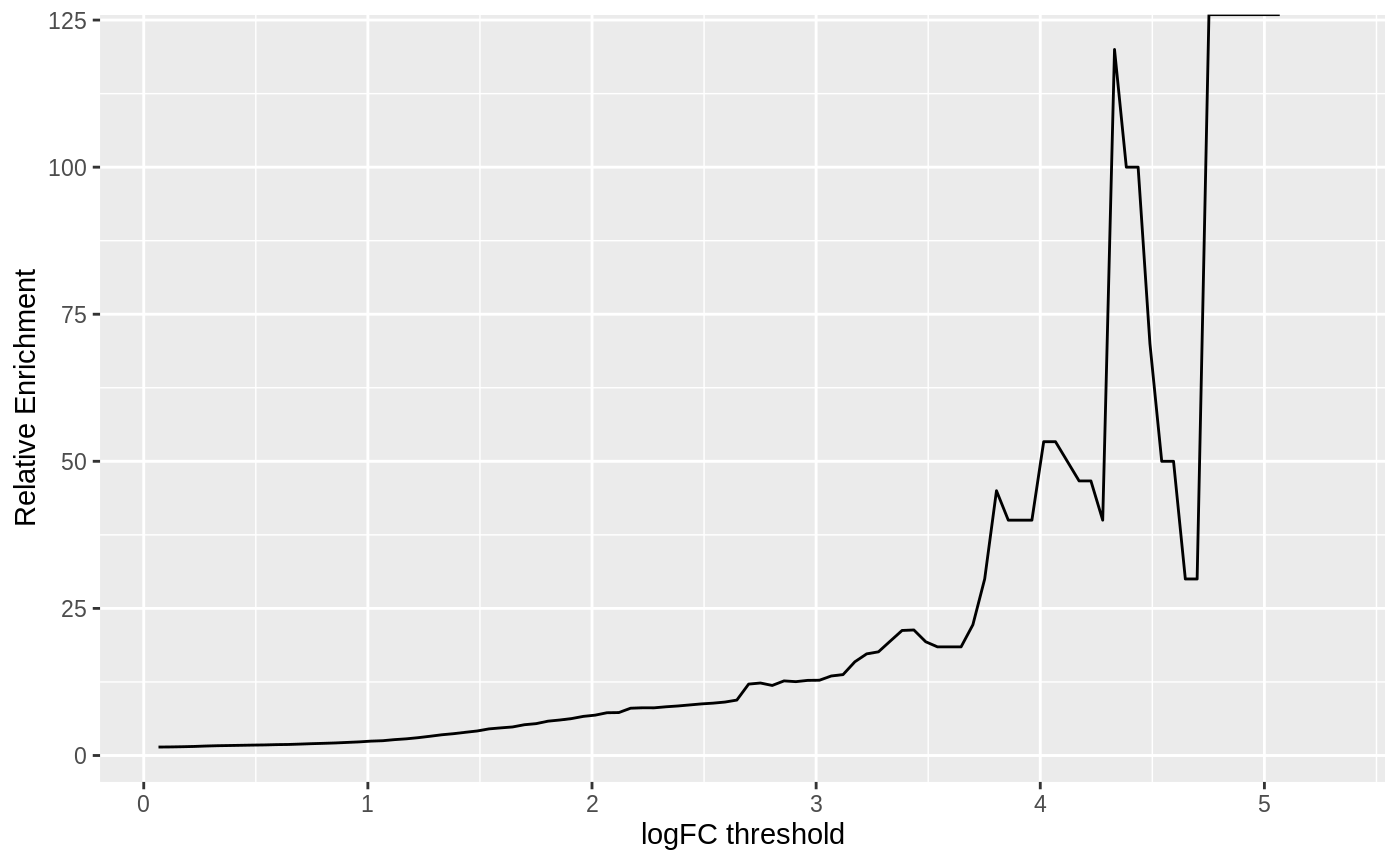
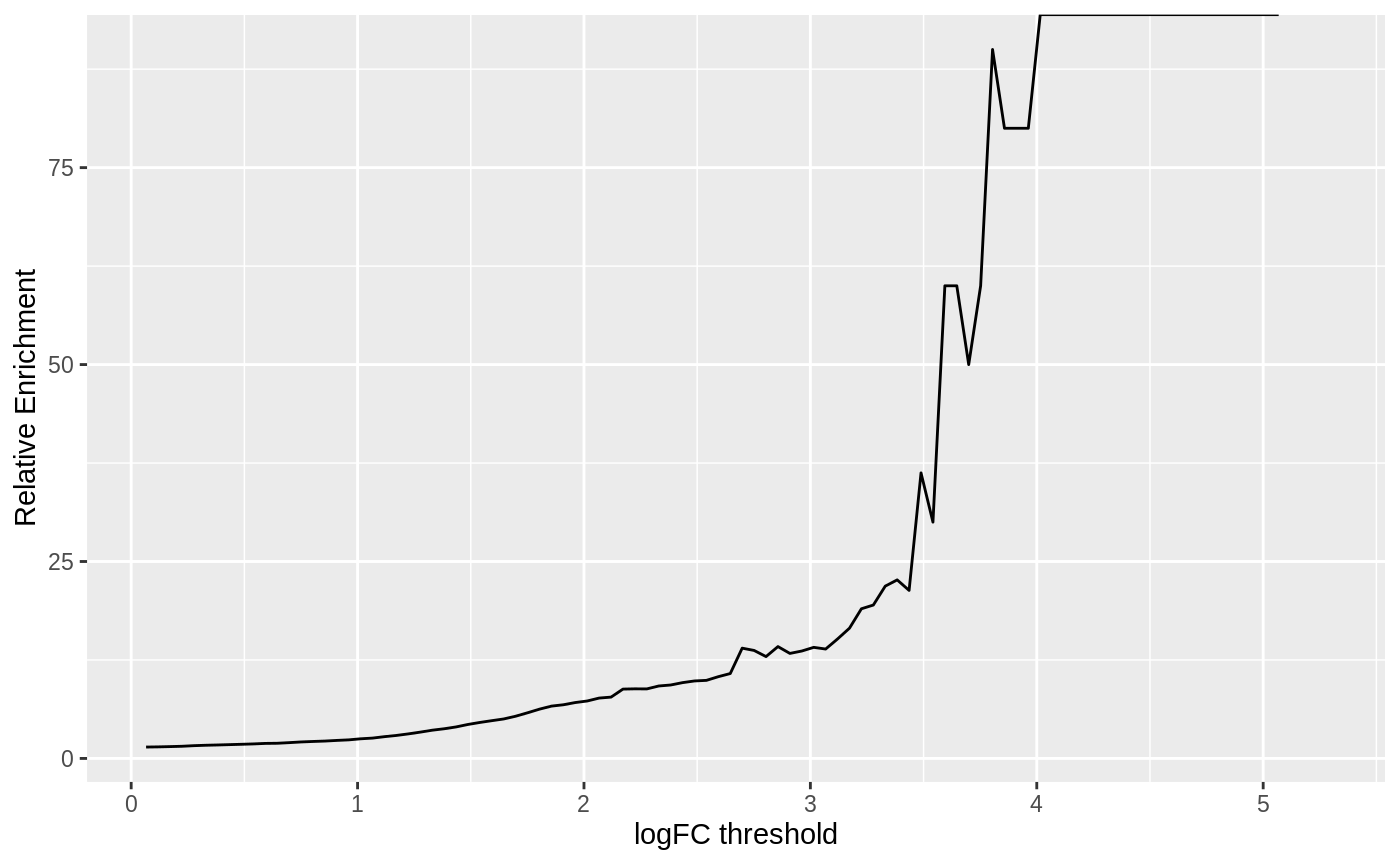
Built site for fluentGenomics: 0.0.2@2f05966

diff --git a/articles/fluentGenomics.html b/articles/fluentGenomics.html
@@ -31,7 +31,7 @@
       </button>
       <span class="navbar-brand">
         <a class="navbar-link" href="../index.html">fluentGenomics</a>
-        <span class="version label label-default" data-toggle="tooltip" data-placement="bottom" title="Released version">0.0.1</span>
+        <span class="version label label-default" data-toggle="tooltip" data-placement="bottom" title="Released version">0.0.2</span>
       </span>
     </div>
 
@@ -196,7 +196,7 @@ into R/Bioconductor, such that the genomic ranges are automatically attached to 
 use a figure -->
 <p>Because <code>tximeta</code> knows the correct reference transcriptome, we can ask <code>tximeta</code> to summarize the transcript-level data to the gene level using the methods of <span class="citation">Soneson, Love, and Robinson (2015)</span>.</p>
 <div class="sourceCode" id="cb20"><pre class="sourceCode r"><code class="sourceCode r"><a class="sourceLine" id="cb20-1" data-line-number="1">gse &lt;-<span class="st"> </span><span class="kw">summarizeToGene</span>(se)</a></code></pre></div>
-<pre><code>## loading existing TxDb created: 2019-12-10 07:18:39</code></pre>
+<pre><code>## loading existing TxDb created: 2019-12-10 22:53:53</code></pre>
 <pre><code>## Loading required package: GenomicFeatures</code></pre>
 <pre><code>## Loading required package: AnnotationDbi</code></pre>
 <pre><code>## 
@@ -440,48 +440,51 @@ use a figure -->
 <pre><code>## GRanges object with 749 ranges and 3 metadata columns:
 ##         seqnames              ranges strand |            gene_id
 ##            &lt;Rle&gt;           &lt;IRanges&gt;  &lt;Rle&gt; |        &lt;character&gt;
-##     [1]    chr21   14371115-14383484      - |  ENSG00000155304.5
-##     [2]    chr12 123973241-124316024      + | ENSG00000178882.14
-##     [3]     chr6     7540451-7541338      - |  ENSG00000261189.1
-##     [4]     chr6   30006121-30007116      - |  ENSG00000237669.1
-##     [5]     chr1 154924734-154936991      - |  ENSG00000163344.5
+##     [1]     chr2   20560448-20651089      - | ENSG00000118960.12
+##     [2]     chr1 204218851-204377665      - | ENSG00000143850.14
+##     [3]     chr7 148807383-148884321      - | ENSG00000106462.10
+##     [4]    chr22   50445000-50475024      - | ENSG00000100241.20
+##     [5]    chr11   64246939-64249494      - |  ENSG00000257086.1
 ##     ...      ...                 ...    ... .                ...
-##   [745]    chr17   82462601-82464255      + |  ENSG00000279744.1
-##   [746]     chr6 161129979-161274061      - | ENSG00000026652.13
-##   [747]     chr6   44246166-44253888      + | ENSG00000096384.19
-##   [748]     chr3   86876388-86991119      - |  ENSG00000206538.8
-##   [749]    chr14   64549902-64589380      + |  ENSG00000165807.7
+##   [745]     chr3   75435348-75457486      + |  ENSG00000272690.5
+##   [746]     chr6   27837760-27865798      + |  ENSG00000233822.4
+##   [747]    chr15   73683966-73714518      + | ENSG00000103855.17
+##   [748]    chr10   99702558-99756134      + | ENSG00000119929.12
+##   [749]     chr2   27032910-27041695      + | ENSG00000119777.19
 ##                  de_log2FC           de_padj
 ##                  &lt;numeric&gt;         &lt;numeric&gt;
-##     [1]  0.101284501454957 0.771798693378446
-##     [2]   0.40796352815316 0.436281252787391
-##     [3]  0.174251867449551 0.898706588478367
-##     [4] -0.173296002719211  0.83311637653751
-##     [5]  0.169893624055423 0.592360753923637
+##     [1] 0.0906493249588821 0.785216655905925
+##     [2]  0.901529521380996 0.326033287420592
+##     [3] -0.116182898136388 0.746389486512003
+##     [4] -0.010061979305195 0.944471659757911
+##     [5]  -0.10900541625657 0.827614275859023
 ##     ...                ...               ...
-##   [745]  -0.22926105902165 0.738993959858183
-##   [746] -0.180568574777471  0.56704245174686
-##   [747] 0.0718443231148747 0.770712293912206
-##   [748] -0.208776985249641 0.750101122328556
-##   [749]  0.374051797475899 0.626787425963629
+##   [745] -0.397530778131519 0.403507897275204
+##   [746] -0.178819078560767  0.77714845828255
+##   [747]  0.148106355273014 0.581597160086851
+##   [748] -0.147283017994724 0.525447904096689
+##   [749] -0.230542407564382 0.213672339268834
 ##   -------
 ##   seqinfo: 25 sequences (1 circular) from an unspecified genome; no seqlengths</code></pre>
-<p>We can scale this up to create many samples via replicate:</p>
-<div class="sourceCode" id="cb64"><pre class="sourceCode r"><code class="sourceCode r"><a class="sourceLine" id="cb64-1" data-line-number="1"><span class="kw"><a href="https://rdrr.io/r/base/Random.html">set.seed</a></span>(<span class="dv">2099</span>)</a>
-<a class="sourceLine" id="cb64-2" data-line-number="2">boot_genes &lt;-<span class="st"> </span><span class="kw"><a href="https://rdrr.io/r/base/lapply.html">replicate</a></span>(<span class="dv">10</span>,</a>
-<a class="sourceLine" id="cb64-3" data-line-number="3">                        <span class="kw"><a href="https://rdrr.io/pkg/plyranges/man/tidyverse-reexports.html">slice</a></span>(other_genes, <span class="kw"><a href="https://rdrr.io/r/base/sample.html">sample.int</a></span>(<span class="kw"><a href="https://rdrr.io/pkg/plyranges/man/n.html">n</a></span>(), size)),</a>
-<a class="sourceLine" id="cb64-4" data-line-number="4">                        <span class="dt">simplify =</span> <span class="ot">FALSE</span>)</a></code></pre></div>
+<p>We can repeat this many times to create many samples via replicate:</p>
+<div class="sourceCode" id="cb64"><pre class="sourceCode r"><code class="sourceCode r"><a class="sourceLine" id="cb64-1" data-line-number="1"><span class="co"># set a seed for the results</span></a>
+<a class="sourceLine" id="cb64-2" data-line-number="2"><span class="kw"><a href="https://rdrr.io/r/base/Random.html">set.seed</a></span>(<span class="dv">2019-08-02</span>)</a>
+<a class="sourceLine" id="cb64-3" data-line-number="3">boot_genes &lt;-<span class="st"> </span><span class="kw"><a href="https://rdrr.io/r/base/lapply.html">replicate</a></span>(<span class="dv">10</span>,</a>
+<a class="sourceLine" id="cb64-4" data-line-number="4">                        <span class="kw"><a href="https://rdrr.io/pkg/plyranges/man/tidyverse-reexports.html">slice</a></span>(other_genes, <span class="kw"><a href="https://rdrr.io/r/base/sample.html">sample.int</a></span>(<span class="kw"><a href="https://rdrr.io/pkg/plyranges/man/n.html">n</a></span>(), size)),</a>
+<a class="sourceLine" id="cb64-5" data-line-number="5">                        <span class="dt">simplify =</span> <span class="ot">FALSE</span>)</a></code></pre></div>
 <p>This creates a list of <em>GRanges</em> objects as a list, we can bind these together using the <code>bind_ranges</code> function. This function creates a new column called “resample” on the result that identifies each of the input <em>GRanges</em> objects:</p>
 <div class="sourceCode" id="cb65"><pre class="sourceCode r"><code class="sourceCode r"><a class="sourceLine" id="cb65-1" data-line-number="1">boot_genes &lt;-<span class="st"> </span><span class="kw"><a href="https://rdrr.io/pkg/plyranges/man/ranges-bind.html">bind_ranges</a></span>(boot_genes, <span class="dt">.id =</span> <span class="st">"resample"</span>)</a></code></pre></div>
 <p>Similarly, we can then combine the <code>boot_genes</code> <em>GRanges</em>, with the DE <em>GRanges</em> object. As the resample column was not present on the DE <em>GRanges</em> object, this is given a missing value which we recode to a 0 using <code><a href="https://rdrr.io/pkg/plyranges/man/tidyverse-reexports.html">mutate()</a></code></p>
-<div class="sourceCode" id="cb66"><pre class="sourceCode r"><code class="sourceCode r"><a class="sourceLine" id="cb66-1" data-line-number="1">all_genes &lt;-<span class="st"> </span><span class="kw"><a href="https://rdrr.io/pkg/plyranges/man/ranges-bind.html">bind_ranges</a></span>(<span class="dt">de=</span>de_genes,</a>
-<a class="sourceLine" id="cb66-2" data-line-number="2">                         <span class="dt">not_de =</span> boot_genes,</a>
-<a class="sourceLine" id="cb66-3" data-line-number="3">                         <span class="dt">.id=</span><span class="st">"origin"</span>) <span class="op">%&gt;%</span></a>
-<a class="sourceLine" id="cb66-4" data-line-number="4"><span class="st">  </span><span class="kw"><a href="https://rdrr.io/pkg/plyranges/man/tidyverse-reexports.html">mutate</a></span>(</a>
-<a class="sourceLine" id="cb66-5" data-line-number="5">    <span class="dt">origin =</span> <span class="kw"><a href="https://rdrr.io/r/base/factor.html">factor</a></span>(origin, <span class="kw"><a href="https://rdrr.io/r/base/c.html">c</a></span>(<span class="st">"de"</span>, <span class="st">"not_de"</span>)),</a>
-<a class="sourceLine" id="cb66-6" data-line-number="6">    <span class="dt">resample =</span> <span class="kw"><a href="https://rdrr.io/r/base/ifelse.html">ifelse</a></span>(<span class="kw"><a href="https://rdrr.io/r/base/NA.html">is.na</a></span>(resample), 0L, <span class="kw"><a href="https://rdrr.io/r/base/integer.html">as.integer</a></span>(resample))</a>
-<a class="sourceLine" id="cb66-7" data-line-number="7">  )</a>
-<a class="sourceLine" id="cb66-8" data-line-number="8">all_genes</a></code></pre></div>
+<div class="sourceCode" id="cb66"><pre class="sourceCode r"><code class="sourceCode r"><a class="sourceLine" id="cb66-1" data-line-number="1">all_genes &lt;-<span class="st"> </span><span class="kw"><a href="https://rdrr.io/pkg/plyranges/man/ranges-bind.html">bind_ranges</a></span>(</a>
+<a class="sourceLine" id="cb66-2" data-line-number="2">  <span class="dt">de=</span>de_genes,</a>
+<a class="sourceLine" id="cb66-3" data-line-number="3">  <span class="dt">not_de =</span> boot_genes,</a>
+<a class="sourceLine" id="cb66-4" data-line-number="4">  <span class="dt">.id=</span><span class="st">"origin"</span></a>
+<a class="sourceLine" id="cb66-5" data-line-number="5">  ) <span class="op">%&gt;%</span></a>
+<a class="sourceLine" id="cb66-6" data-line-number="6"><span class="st">  </span><span class="kw"><a href="https://rdrr.io/pkg/plyranges/man/tidyverse-reexports.html">mutate</a></span>(</a>
+<a class="sourceLine" id="cb66-7" data-line-number="7">    <span class="dt">origin =</span> <span class="kw"><a href="https://rdrr.io/r/base/factor.html">factor</a></span>(origin, <span class="kw"><a href="https://rdrr.io/r/base/c.html">c</a></span>(<span class="st">"de"</span>, <span class="st">"not_de"</span>)),</a>
+<a class="sourceLine" id="cb66-8" data-line-number="8">    <span class="dt">resample =</span> <span class="kw"><a href="https://rdrr.io/r/base/ifelse.html">ifelse</a></span>(<span class="kw"><a href="https://rdrr.io/r/base/NA.html">is.na</a></span>(resample), 0L, <span class="kw"><a href="https://rdrr.io/r/base/integer.html">as.integer</a></span>(resample))</a>
+<a class="sourceLine" id="cb66-9" data-line-number="9">  )</a>
+<a class="sourceLine" id="cb66-10" data-line-number="10">all_genes</a></code></pre></div>
 <pre><code>## GRanges object with 8239 ranges and 5 metadata columns:
 ##          seqnames              ranges strand |            gene_id
 ##             &lt;Rle&gt;           &lt;IRanges&gt;  &lt;Rle&gt; |        &lt;character&gt;
@@ -491,24 +494,24 @@ use a figure -->
 ##      [4]     chr7 150800403-150805120      + |  ENSG00000002933.8
 ##      [5]     chr4   15778275-15853230      + | ENSG00000004468.12
 ##      ...      ...                 ...    ... .                ...
-##   [8235]    chr11   59752578-59754975      - |  ENSG00000254477.2
-##   [8236]    chr19     1876810-1885547      - | ENSG00000129968.15
-##   [8237]    chr18   50878734-50954257      + | ENSG00000082212.12
-##   [8238]     chr1 160997957-161038962      - |  ENSG00000270149.5
-##   [8239]    chr17   28455752-28614197      - |  ENSG00000258472.8
-##                     de_log2FC              de_padj  resample   origin
-##                     &lt;numeric&gt;            &lt;numeric&gt; &lt;integer&gt; &lt;factor&gt;
-##      [1]     4.98711071929753 1.37057047788478e-13         0       de
-##      [2]     1.92721595380928  3.1747750713955e-05         0       de
-##      [3]      2.9337250105913 2.01310386948312e-11         0       de
-##      [4]     3.16721751137947 1.07359905687254e-08         0       de
-##      [5]     5.40894352968123 4.82904681779634e-18         0       de
-##      ...                  ...                  ...       ...      ...
-##   [8235]   -0.079139304552127     0.91869731085397        10   not_de
-##   [8236]   -0.263397975929049    0.229659247995168        10   not_de
-##   [8237] -0.00382090983565518    0.991571521790647        10   not_de
-##   [8238]    0.200972605978732    0.529478237290401        10   not_de
-##   [8239]   0.0931974352744685    0.785799454504345        10   not_de
+##   [8235]     chr3   72749277-72861914      - | ENSG00000144736.13
+##   [8236]    chr17   29566052-29573157      + | ENSG00000167543.15
+##   [8237]     chr7 129225023-129430211      + | ENSG00000158467.16
+##   [8238]     chr2   24029340-24049575      - | ENSG00000163026.11
+##   [8239]    chr16     1826941-1840207      + | ENSG00000180185.11
+##                   de_log2FC              de_padj  resample   origin
+##                   &lt;numeric&gt;            &lt;numeric&gt; &lt;integer&gt; &lt;factor&gt;
+##      [1]   4.98711071929753 1.37057047788478e-13         0       de
+##      [2]   1.92721595380928  3.1747750713955e-05         0       de
+##      [3]    2.9337250105913 2.01310386948312e-11         0       de
+##      [4]   3.16721751137947 1.07359905687254e-08         0       de
+##      [5]   5.40894352968123 4.82904681779634e-18         0       de
+##      ...                ...                  ...       ...      ...
+##   [8235] -0.324057975853256    0.531385106280333        10   not_de
+##   [8236] 0.0582048743676746    0.681056516727239        10   not_de
+##   [8237]  0.284556421478987    0.378275048248545        10   not_de
+##   [8238] -0.130576070177018    0.601621122384955        10   not_de
+##   [8239]  0.173903843805343    0.568644093540838        10   not_de
 ##   -------
 ##   seqinfo: 25 sequences (1 circular) from an unspecified genome; no seqlengths</code></pre>
 <p>Now we would like to modify our gene ranges so their width is 10 kilobases on either side of their transcription start site (TSS). There are many ways one could do this but we prefer an approach via the anchoring methods in <em>plyranges</em>. Because there is a mutual dependence between the start, end, width and strand of a <em>GRanges</em> object, we define anchors to fix one of start and end, while modifying the width. As an example to extract just the TSS, we can anchor by the 5’ end of the range and modify the width of the range to equal 1.</p>
@@ -516,7 +519,7 @@ use a figure -->
 <a class="sourceLine" id="cb68-2" data-line-number="2"><span class="st">  </span><span class="kw"><a href="https://rdrr.io/pkg/plyranges/man/ranges-anchor.html">anchor_5p</a></span>() <span class="op">%&gt;%</span><span class="st"> </span></a>
 <a class="sourceLine" id="cb68-3" data-line-number="3"><span class="st">  </span><span class="kw"><a href="https://rdrr.io/pkg/plyranges/man/tidyverse-reexports.html">mutate</a></span>(<span class="dt">width =</span> <span class="dv">1</span>)</a></code></pre></div>
 <p>Anchoring by the 5’ end of a range will fix the end of negatively stranded ranges, and fix the start of positively stranded ranges.</p>
-<p>We can then repeat the same pattern but this time using <code><a href="https://rdrr.io/pkg/plyranges/man/ranges-anchor.html">anchor_center()</a></code> to tell <em>plyranges</em> that we are making the TSS the midpoint of a range that has total width of 20kb or 10kb to upstream and downstream of the TSS.</p>
+<p>We can then repeat the same pattern but this time using <code><a href="https://rdrr.io/pkg/plyranges/man/ranges-anchor.html">anchor_center()</a></code> to tell <em>plyranges</em> that we are making the TSS the midpoint of a range that has total width of 20kb or 10kb both upstream and downstream of the TSS.</p>
 <div class="sourceCode" id="cb69"><pre class="sourceCode r"><code class="sourceCode r"><a class="sourceLine" id="cb69-1" data-line-number="1">all_genes &lt;-all_genes <span class="op">%&gt;%</span><span class="st"> </span></a>
 <a class="sourceLine" id="cb69-2" data-line-number="2"><span class="st">  </span><span class="kw"><a href="https://rdrr.io/pkg/plyranges/man/ranges-anchor.html">anchor_center</a></span>() <span class="op">%&gt;%</span></a>
 <a class="sourceLine" id="cb69-3" data-line-number="3"><span class="st">  </span><span class="kw"><a href="https://rdrr.io/pkg/plyranges/man/tidyverse-reexports.html">mutate</a></span>(<span class="dt">width=</span><span class="dv">2</span><span class="op">*</span><span class="fl">1e4</span>)</a></code></pre></div>
@@ -525,7 +528,7 @@ use a figure -->
 <div class="sourceCode" id="cb70"><pre class="sourceCode r"><code class="sourceCode r"><a class="sourceLine" id="cb70-1" data-line-number="1">overlap_genes &lt;-<span class="st"> </span>all_genes <span class="op">%&gt;%</span></a>
 <a class="sourceLine" id="cb70-2" data-line-number="2"><span class="st">  </span><span class="kw"><a href="https://rdrr.io/pkg/plyranges/man/overlap-joins.html">join_overlap_left</a></span>(da_peaks)</a>
 <a class="sourceLine" id="cb70-3" data-line-number="3">overlap_genes</a></code></pre></div>
-<pre><code>## GRanges object with 27800 ranges and 8 metadata columns:
+<pre><code>## GRanges object with 27591 ranges and 8 metadata columns:
 ##           seqnames              ranges strand |            gene_id
 ##              &lt;Rle&gt;           &lt;IRanges&gt;  &lt;Rle&gt; |        &lt;character&gt;
 ##       [1]     chr1 196641878-196661877      + | ENSG00000000971.15
@@ -534,11 +537,11 @@ use a figure -->
 ##       [4]     chr4   17567192-17587191      + | ENSG00000002549.12
 ##       [5]     chr4   17567192-17587191      + | ENSG00000002549.12
 ##       ...      ...                 ...    ... .                ...
-##   [27796]     chr1 161028962-161048961      - |  ENSG00000270149.5
-##   [27797]     chr1 161028962-161048961      - |  ENSG00000270149.5
-##   [27798]     chr1 161028962-161048961      - |  ENSG00000270149.5
-##   [27799]    chr17   28604197-28624196      - |  ENSG00000258472.8
-##   [27800]    chr17   28604197-28624196      - |  ENSG00000258472.8
+##   [27587]    chr17   29556052-29576051      + | ENSG00000167543.15
+##   [27588]     chr7 129215023-129235022      + | ENSG00000158467.16
+##   [27589]     chr2   24039575-24059574      - | ENSG00000163026.11
+##   [27590]    chr16     1816941-1836940      + | ENSG00000180185.11
+##   [27591]    chr16     1816941-1836940      + | ENSG00000180185.11
 ##                    de_log2FC              de_padj  resample   origin
 ##                    &lt;numeric&gt;            &lt;numeric&gt; &lt;integer&gt; &lt;factor&gt;
 ##       [1]   4.98711071929753 1.37057047788478e-13         0       de
@@ -547,11 +550,11 @@ use a figure -->
 ##       [4]    2.9337250105913 2.01310386948312e-11         0       de
 ##       [5]    2.9337250105913 2.01310386948312e-11         0       de
 ##       ...                ...                  ...       ...      ...
-##   [27796]  0.200972605978732    0.529478237290401        10   not_de
-##   [27797]  0.200972605978732    0.529478237290401        10   not_de
-##   [27798]  0.200972605978732    0.529478237290401        10   not_de
-##   [27799] 0.0931974352744685    0.785799454504345        10   not_de
-##   [27800] 0.0931974352744685    0.785799454504345        10   not_de
+##   [27587] 0.0582048743676746    0.681056516727239        10   not_de
+##   [27588]  0.284556421478987    0.378275048248545        10   not_de
+##   [27589] -0.130576070177018    0.601621122384955        10   not_de
+##   [27590]  0.173903843805343    0.568644093540838        10   not_de
+##   [27591]  0.173903843805343    0.568644093540838        10   not_de
 ##                    peak_id          da_log2FC              da_padj
 ##                &lt;character&gt;          &lt;numeric&gt;            &lt;numeric&gt;
 ##       [1]  ATAC_peak_21236 -0.546582189082724 0.000115273676444232
@@ -560,11 +563,11 @@ use a figure -->
 ##       [4] ATAC_peak_193579 -0.281615137872819 7.99888515457195e-05
 ##       [5] ATAC_peak_193580  0.673705317951604 7.60042918890061e-15
 ##       ...              ...                ...                  ...
-##   [27796]  ATAC_peak_17426  0.462698705683736 9.69878193149109e-11
-##   [27797]  ATAC_peak_17427  0.377286409679233 7.02217071532745e-06
-##   [27798]  ATAC_peak_17428 -0.450459285312325 2.38625352432231e-09
-##   [27799] ATAC_peak_109117 -0.649512099043331 4.92570293120207e-08
-##   [27800] ATAC_peak_109118  -1.26938787281936 2.03749572914536e-18
+##   [27587] ATAC_peak_109304  0.211750928531232  0.00111289505290053
+##   [27588] ATAC_peak_255700  0.177364068655037 5.25384772617076e-09
+##   [27589] ATAC_peak_133247 -0.266265981992122  1.0155043266685e-07
+##   [27590]  ATAC_peak_97065 -0.405271356218346 1.28054921946532e-05
+##   [27591]  ATAC_peak_97067  0.289105317951603 5.87369828076092e-07
 ##   -------
 ##   seqinfo: 25 sequences (1 circular) from an unspecified genome; no seqlengths</code></pre>
 <p>Now we can ask, how many DA peaks are near DE genes relative to “other” non-DE genes? A gene may appear more than once, since multiple peaks may overlap a single gene or because we have re-sampled the same gene more than once.</p>
@@ -595,14 +598,14 @@ use a figure -->
 ##     origin       any      lfc1      lfc2
 ##   &lt;factor&gt; &lt;numeric&gt; &lt;numeric&gt; &lt;numeric&gt;
 ## 1       de      3416      1097       234
-## 2   not_de    2383.1     451.4        34</code></pre>
-<p>Then using <code><a href="https://dplyr.tidyverse.org/reference/summarise_all.html">summarise_all()</a></code> from <em>dplyr</em> we divide the rows of the above computation, to see that the relative enrichment increases for a ‘larger’ LFC:</p>
+## 2   not_de    2362.3     443.8      32.3</code></pre>
+<p>Then using <code><a href="https://dplyr.tidyverse.org/reference/summarise_all.html">summarize_all()</a></code> from <em>dplyr</em> we divide the rows of the above computation, to see that the relative enrichment increases for a ‘larger’ LFC:</p>
 <div class="sourceCode" id="cb76"><pre class="sourceCode r"><code class="sourceCode r"><a class="sourceLine" id="cb76-1" data-line-number="1">overlap_tab <span class="op">%&gt;%</span><span class="st"> </span></a>
 <a class="sourceLine" id="cb76-2" data-line-number="2"><span class="st">  </span><span class="kw"><a href="https://rdrr.io/r/base/as.data.frame.html">as.data.frame</a></span>() <span class="op">%&gt;%</span><span class="st"> </span></a>
 <a class="sourceLine" id="cb76-3" data-line-number="3"><span class="st">  </span><span class="kw"><a href="https://rdrr.io/pkg/plyranges/man/tidyverse-reexports.html">select</a></span>(<span class="op">-</span>origin) <span class="op">%&gt;%</span><span class="st"> </span></a>
-<a class="sourceLine" id="cb76-4" data-line-number="4"><span class="st">  </span><span class="kw"><a href="https://dplyr.tidyverse.org/reference/summarise_all.html">summarise_all</a></span>(<span class="dt">.funs =</span> <span class="op">~</span><span class="kw"><a href="https://rdrr.io/r/base/funprog.html">Reduce</a></span>(<span class="st">"/"</span>, .))</a></code></pre></div>
+<a class="sourceLine" id="cb76-4" data-line-number="4"><span class="st">  </span><span class="kw"><a href="https://dplyr.tidyverse.org/reference/summarise_all.html">summarize_all</a></span>(<span class="dt">.funs =</span> <span class="op">~</span><span class="kw"><a href="https://rdrr.io/r/base/funprog.html">Reduce</a></span>(<span class="st">"/"</span>, .))</a></code></pre></div>
 <pre><code>##        any     lfc1     lfc2
-## 1 1.433427 2.430217 6.882353</code></pre>
+## 1 1.446048 2.471834 7.244582</code></pre>
 <p>Due to the one-to-many mappings of DE genes to peaks, it is unknown if we have the same number of DE genes participating or less, as we increase the threshold on the peak LFC. This can be accounted for by grouping and aggregating twice. First, the number of peaks that meet the thresholds are computed within each gene, origin and resample group. Second, within the origin column, we compute the total number of peaks that meet the target threshold and the number of genes that have more than zero peaks (again averaging over the number of resamples).</p>
 <div class="sourceCode" id="cb78"><pre class="sourceCode r"><code class="sourceCode r"><a class="sourceLine" id="cb78-1" data-line-number="1">overlap_genes <span class="op">%&gt;%</span></a>
 <a class="sourceLine" id="cb78-2" data-line-number="2"><span class="st">  </span><span class="kw"><a href="https://rdrr.io/pkg/plyranges/man/tidyverse-reexports.html">group_by</a></span>(gene_id, origin, resample) <span class="op">%&gt;%</span></a>
@@ -611,7 +614,7 @@ use a figure -->
 <a class="sourceLine" id="cb78-5" data-line-number="5">    <span class="dt">lfc2=</span> <span class="kw"><a href="https://rdrr.io/r/base/sum.html">sum</a></span>(<span class="kw"><a href="https://rdrr.io/r/base/MathFun.html">abs</a></span>(da_log2FC) <span class="op">&gt;</span><span class="st"> </span><span class="dv">2</span>, <span class="dt">na.rm=</span><span class="ot">TRUE</span>)</a>
 <a class="sourceLine" id="cb78-6" data-line-number="6">  ) <span class="op">%&gt;%</span><span class="st"> </span></a>
 <a class="sourceLine" id="cb78-7" data-line-number="7"><span class="st">  </span><span class="kw"><a href="https://rdrr.io/pkg/plyranges/man/tidyverse-reexports.html">group_by</a></span>(origin) <span class="op">%&gt;%</span><span class="st"> </span></a>
-<a class="sourceLine" id="cb78-8" data-line-number="8"><span class="st">  </span><span class="kw"><a href="https://rdrr.io/pkg/plyranges/man/tidyverse-reexports.html">summarise</a></span>(</a>
+<a class="sourceLine" id="cb78-8" data-line-number="8"><span class="st">  </span><span class="kw"><a href="https://rdrr.io/pkg/plyranges/man/tidyverse-reexports.html">summarize</a></span>(</a>
 <a class="sourceLine" id="cb78-9" data-line-number="9">    <span class="dt">lfc1_gene_count =</span> <span class="kw"><a href="https://rdrr.io/r/base/sum.html">sum</a></span>(lfc1 <span class="op">&gt;</span><span class="st"> </span><span class="dv">0</span>) <span class="op">/</span><span class="st"> </span><span class="kw"><a href="https://rdrr.io/pkg/plyranges/man/n_distinct.html">n_distinct</a></span>(resample),</a>
 <a class="sourceLine" id="cb78-10" data-line-number="10">    <span class="dt">lfc1_peak_count =</span> <span class="kw"><a href="https://rdrr.io/r/base/sum.html">sum</a></span>(lfc1) <span class="op">/</span><span class="st"> </span><span class="kw"><a href="https://rdrr.io/pkg/plyranges/man/n_distinct.html">n_distinct</a></span>(resample),</a>
 <a class="sourceLine" id="cb78-11" data-line-number="11">    <span class="dt">lfc2_gene_count =</span> <span class="kw"><a href="https://rdrr.io/r/base/sum.html">sum</a></span>(lfc2 <span class="op">&gt;</span><span class="st"> </span><span class="dv">0</span>) <span class="op">/</span><span class="st"> </span><span class="kw"><a href="https://rdrr.io/pkg/plyranges/man/n_distinct.html">n_distinct</a></span>(resample),</a>
@@ -621,7 +624,7 @@ use a figure -->
 ##     origin lfc1_gene_count lfc1_peak_count lfc2_gene_count lfc2_peak_count
 ##   &lt;factor&gt;       &lt;numeric&gt;       &lt;numeric&gt;       &lt;numeric&gt;       &lt;numeric&gt;
 ## 1       de             515            1097             151             234
-## 2   not_de           306.1           451.4            32.2              34</code></pre>
+## 2   not_de           301.4           443.8            30.4            32.3</code></pre>
 <p>To do this for many thresholds is cumbersome and would create a lot of duplicate code, instead we create a single function called <code>count_above_threshold</code> that accepts a GRanges object, and computes the peak count that meets the threshold.</p>
 <div class="sourceCode" id="cb80"><pre class="sourceCode r"><code class="sourceCode r"><a class="sourceLine" id="cb80-1" data-line-number="1">count_above_threshold &lt;-<span class="st"> </span><span class="cf">function</span>(.data, threshold) {</a>
 <a class="sourceLine" id="cb80-2" data-line-number="2">  <span class="kw"><a href="https://rdrr.io/pkg/plyranges/man/ranges-reduce.html">reduce_ranges_directed</a></span>(.data,</a>
@@ -629,7 +632,7 @@ use a figure -->
 <a class="sourceLine" id="cb80-4" data-line-number="4">                         <span class="dt">value =</span> <span class="kw"><a href="https://rdrr.io/r/base/sum.html">sum</a></span>(<span class="kw"><a href="https://rdrr.io/r/base/MathFun.html">abs</a></span>(da_log2FC) <span class="op">&gt;</span><span class="st"> </span>threshold, <span class="dt">na.rm =</span> <span class="ot">TRUE</span>)</a>
 <a class="sourceLine" id="cb80-5" data-line-number="5">  ) </a>
 <a class="sourceLine" id="cb80-6" data-line-number="6">}</a></code></pre></div>
-<p>The above function will compute the counts for any arbitrary threshold, now we need to apply it over possible LFC thresholds over interest. We use a grid of 100 thresholds, using the range of absolute LFC values in the <code>da_peaks</code> <em>GRanges</em> object:</p>
+<p>The above function will compute the counts for any arbitrary threshold, now we need to apply it over possible LFC thresholds of interest. We choose a grid of one hundred thresholds based on the range of absolute LFC values in the <code>da_peaks</code> <em>GRanges</em> object:</p>
 <div class="sourceCode" id="cb81"><pre class="sourceCode r"><code class="sourceCode r"><a class="sourceLine" id="cb81-1" data-line-number="1">thresholds &lt;-<span class="st"> </span>da_peaks <span class="op">%&gt;%</span><span class="st"> </span></a>
 <a class="sourceLine" id="cb81-2" data-line-number="2"><span class="st">  </span><span class="kw"><a href="https://rdrr.io/pkg/plyranges/man/tidyverse-reexports.html">mutate</a></span>(<span class="dt">abs_lfc =</span> <span class="kw"><a href="https://rdrr.io/r/base/MathFun.html">abs</a></span>(da_log2FC)) <span class="op">%&gt;%</span><span class="st"> </span></a>
 <a class="sourceLine" id="cb81-3" data-line-number="3"><span class="st">  </span><span class="kw"><a href="https://rdrr.io/r/base/with.html">with</a></span>(</a>
@@ -645,7 +648,7 @@ use a figure -->
 <p>This creates a very <em>long</em> GRanges object. To compute the peak and gene counts for each threshold, we apply the same summarisation as before:</p>
 <div class="sourceCode" id="cb83"><pre class="sourceCode r"><code class="sourceCode r"><a class="sourceLine" id="cb83-1" data-line-number="1">counts_by_threshold &lt;-<span class="st"> </span>counts_by_threshold <span class="op">%&gt;%</span><span class="st"> </span></a>
 <a class="sourceLine" id="cb83-2" data-line-number="2"><span class="st">  </span><span class="kw"><a href="https://rdrr.io/pkg/plyranges/man/tidyverse-reexports.html">group_by</a></span>(origin, threshold) <span class="op">%&gt;%</span><span class="st"> </span></a>
-<a class="sourceLine" id="cb83-3" data-line-number="3"><span class="st">  </span><span class="kw"><a href="https://rdrr.io/pkg/plyranges/man/tidyverse-reexports.html">summarise</a></span>(</a>
+<a class="sourceLine" id="cb83-3" data-line-number="3"><span class="st">  </span><span class="kw"><a href="https://rdrr.io/pkg/plyranges/man/tidyverse-reexports.html">summarize</a></span>(</a>
 <a class="sourceLine" id="cb83-4" data-line-number="4">    <span class="dt">gene_count =</span> <span class="kw"><a href="https://rdrr.io/r/base/sum.html">sum</a></span>(value <span class="op">&gt;</span><span class="st"> </span><span class="dv">0</span>) <span class="op">/</span><span class="st"> </span><span class="kw"><a href="https://rdrr.io/pkg/plyranges/man/n_distinct.html">n_distinct</a></span>(resample),</a>
 <a class="sourceLine" id="cb83-5" data-line-number="5">    <span class="dt">peak_count =</span> <span class="kw"><a href="https://rdrr.io/r/base/sum.html">sum</a></span>(value) <span class="op">/</span><span class="st"> </span><span class="kw"><a href="https://rdrr.io/pkg/plyranges/man/n_distinct.html">n_distinct</a></span>(resample)</a>
 <a class="sourceLine" id="cb83-6" data-line-number="6">  )</a>
@@ -671,17 +674,23 @@ use a figure -->
 <a class="sourceLine" id="cb85-4" data-line-number="4"><span class="st">  </span><span class="kw"><a href="https://rdrr.io/pkg/plyranges/man/tidyverse-reexports.html">summarize</a></span>(<span class="dt">enrichment =</span> <span class="kw"><a href="https://rdrr.io/r/base/funprog.html">Reduce</a></span>(<span class="st">"/"</span>, peak_count)) </a>
 <a class="sourceLine" id="cb85-5" data-line-number="5"></a>
 <a class="sourceLine" id="cb85-6" data-line-number="6">enrichment <span class="op">%&gt;%</span><span class="st"> </span></a>
-<a class="sourceLine" id="cb85-7" data-line-number="7"><span class="st">  </span><span class="kw"><a href="https://ggplot2.tidyverse.org/reference/ggplot.html">ggplot</a></span>(<span class="kw"><a href="https://ggplot2.tidyverse.org/reference/aes.html">aes</a></span>(<span class="dt">x =</span> threshold, <span class="dt">y =</span> enrichment)) <span class="op">+</span><span class="st"> </span><span class="kw"><a href="https://ggplot2.tidyverse.org/reference/geom_path.html">geom_line</a></span>() <span class="op">+</span></a>
-<a class="sourceLine" id="cb85-8" data-line-number="8"><span class="st">  </span><span class="kw"><a href="https://ggplot2.tidyverse.org/reference/labs.html">labs</a></span>(<span class="dt">x =</span> <span class="st">"logFC threshold"</span>, <span class="dt">y =</span> <span class="st">"Relative Enrichment"</span>)</a></code></pre></div>
+<a class="sourceLine" id="cb85-7" data-line-number="7"><span class="st">  </span><span class="kw"><a href="https://ggplot2.tidyverse.org/reference/ggplot.html">ggplot</a></span>(<span class="kw"><a href="https://ggplot2.tidyverse.org/reference/aes.html">aes</a></span>(<span class="dt">x =</span> threshold, <span class="dt">y =</span> enrichment)) <span class="op">+</span><span class="st"> </span></a>
+<a class="sourceLine" id="cb85-8" data-line-number="8"><span class="st">  </span><span class="kw"><a href="https://ggplot2.tidyverse.org/reference/geom_path.html">geom_line</a></span>() <span class="op">+</span></a>
+<a class="sourceLine" id="cb85-9" data-line-number="9"><span class="st">  </span><span class="kw"><a href="https://ggplot2.tidyverse.org/reference/labs.html">labs</a></span>(<span class="dt">x =</span> <span class="st">"logFC threshold"</span>, <span class="dt">y =</span> <span class="st">"Relative Enrichment"</span>)</a></code></pre></div>
 <pre><code>## Warning: Removed 4 rows containing missing values (geom_path).</code></pre>
 <p><img src="fluentGenomics_files/figure-html/unnamed-chunk-37-1.png" width="700"></p>
 <p>We computed the sum of DA peaks near the DE genes, for increasing LFC thresholds on the accessibility change. As we increased the threshold, the number of total peaks went down (likewise the mean number of DA peaks per gene). It is also likely the number of DE genes with a DA peak nearby with such a large change went down - we can check this by plotting the number of DE genes against the number of DA peaks:</p>
 <div class="sourceCode" id="cb87"><pre class="sourceCode r"><code class="sourceCode r"><a class="sourceLine" id="cb87-1" data-line-number="1">counts_by_threshold <span class="op">%&gt;%</span><span class="st"> </span></a>
 <a class="sourceLine" id="cb87-2" data-line-number="2"><span class="st">  </span><span class="kw"><a href="https://rdrr.io/r/base/as.data.frame.html">as.data.frame</a></span>() <span class="op">%&gt;%</span><span class="st"> </span></a>
-<a class="sourceLine" id="cb87-3" data-line-number="3"><span class="st">  </span><span class="kw"><a href="https://ggplot2.tidyverse.org/reference/ggplot.html">ggplot</a></span>(<span class="kw"><a href="https://ggplot2.tidyverse.org/reference/aes.html">aes</a></span>(<span class="dt">x =</span> gene_count, <span class="dt">y =</span> peak_count, <span class="dt">color =</span> threshold)) <span class="op">+</span></a>
-<a class="sourceLine" id="cb87-4" data-line-number="4"><span class="st">  </span><span class="kw"><a href="https://ggplot2.tidyverse.org/reference/geom_point.html">geom_point</a></span>() <span class="op">+</span></a>
-<a class="sourceLine" id="cb87-5" data-line-number="5"><span class="st">  </span><span class="kw"><a href="https://ggplot2.tidyverse.org/reference/scale_viridis.html">scale_color_viridis_c</a></span>() <span class="op">+</span></a>
-<a class="sourceLine" id="cb87-6" data-line-number="6"><span class="st">  </span><span class="kw"><a href="https://ggplot2.tidyverse.org/reference/facet_wrap.html">facet_wrap</a></span>(<span class="op">~</span><span class="st"> </span>origin)</a></code></pre></div>
+<a class="sourceLine" id="cb87-3" data-line-number="3"><span class="st">  </span><span class="kw"><a href="https://ggplot2.tidyverse.org/reference/ggplot.html">ggplot</a></span>(<span class="kw"><a href="https://ggplot2.tidyverse.org/reference/aes.html">aes</a></span>(<span class="dt">x =</span> gene_count, </a>
+<a class="sourceLine" id="cb87-4" data-line-number="4">             <span class="dt">y =</span> peak_count, </a>
+<a class="sourceLine" id="cb87-5" data-line-number="5">             <span class="dt">color =</span> threshold)) <span class="op">+</span></a>
+<a class="sourceLine" id="cb87-6" data-line-number="6"><span class="st">  </span><span class="kw"><a href="https://ggplot2.tidyverse.org/reference/geom_point.html">geom_point</a></span>() <span class="op">+</span></a>
+<a class="sourceLine" id="cb87-7" data-line-number="7"><span class="st">  </span><span class="kw"><a href="https://ggplot2.tidyverse.org/reference/scale_viridis.html">scale_color_viridis_c</a></span>() <span class="op">+</span></a>
+<a class="sourceLine" id="cb87-8" data-line-number="8"><span class="st">  </span><span class="kw"><a href="https://ggplot2.tidyverse.org/reference/facet_wrap.html">facet_wrap</a></span>(<span class="op">~</span><span class="st"> </span>origin) <span class="op">+</span></a>
+<a class="sourceLine" id="cb87-9" data-line-number="9"><span class="st">  </span><span class="kw"><a href="https://ggplot2.tidyverse.org/reference/labs.html">labs</a></span>(<span class="dt">x =</span> <span class="st">"Number of Genes"</span>, </a>
+<a class="sourceLine" id="cb87-10" data-line-number="10">       <span class="dt">y =</span> <span class="st">"Number of Peaks"</span>,</a>
+<a class="sourceLine" id="cb87-11" data-line-number="11">       <span class="dt">color =</span> <span class="st">"LFC threshold"</span>)</a></code></pre></div>
 <p><img src="fluentGenomics_files/figure-html/unnamed-chunk-38-1.png" width="700"></p>
 </div>
 <div id="discussion" class="section level2">
@@ -696,7 +705,7 @@ use a figure -->
 <h2 class="hasAnchor">
 <a href="#session-info" class="anchor"></a>Session Info</h2>
 <div class="sourceCode" id="cb88"><pre class="sourceCode r"><code class="sourceCode r"><a class="sourceLine" id="cb88-1" data-line-number="1"><span class="kw"><a href="https://rdrr.io/r/utils/sessionInfo.html">sessionInfo</a></span>()</a></code></pre></div>
-<pre><code>## R Under development (unstable) (2019-12-09 r77545)
+<pre><code>## R Under development (unstable) (2019-12-10 r77548)
 ## Platform: x86_64-pc-linux-gnu (64-bit)
 ## Running under: Ubuntu 16.04.6 LTS
 ## 
@@ -726,7 +735,7 @@ use a figure -->
 ## [13] IRanges_2.21.2              S4Vectors_0.25.6           
 ## [15] BiocGenerics_0.33.0         readr_1.3.1                
 ## [17] dplyr_0.8.3                 tximeta_1.5.6              
-## [19] fluentGenomics_0.0.1       
+## [19] fluentGenomics_0.0.2       
 ## 
 ## loaded via a namespace (and not attached):
 ##  [1] ProtGenerics_1.19.0      bitops_1.0-6             fs_1.3.1                

diff --git a/reference/peaks.html b/reference/peaks.html
@@ -71,7 +71,7 @@ this object was generated can be found in the vignette." />
       </button>
       <span class="navbar-brand">
         <a class="navbar-link" href="../index.html">fluentGenomics</a>
-        <span class="version label label-default" data-toggle="tooltip" data-placement="bottom" title="Released version">0.0.1</span>
+        <span class="version label label-default" data-toggle="tooltip" data-placement="bottom" title="Released version">0.0.2</span>
       </span>
     </div>
 

diff --git a/articles/index.html b/articles/index.html
@@ -67,7 +67,7 @@
       </button>
       <span class="navbar-brand">
         <a class="navbar-link" href="../index.html">fluentGenomics</a>
-        <span class="version label label-default" data-toggle="tooltip" data-placement="bottom" title="Released version">0.0.1</span>
+        <span class="version label label-default" data-toggle="tooltip" data-placement="bottom" title="Released version">0.0.2</span>
       </span>
     </div>
 

diff --git a/reference/cache-se.html b/reference/cache-se.html
@@ -69,7 +69,7 @@
       </button>
       <span class="navbar-brand">
         <a class="navbar-link" href="../index.html">fluentGenomics</a>
-        <span class="version label label-default" data-toggle="tooltip" data-placement="bottom" title="Released version">0.0.1</span>
+        <span class="version label label-default" data-toggle="tooltip" data-placement="bottom" title="Released version">0.0.2</span>
       </span>
     </div>
 

diff --git a/reference/index.html b/reference/index.html
@@ -67,7 +67,7 @@
       </button>
       <span class="navbar-brand">
         <a class="navbar-link" href="../index.html">fluentGenomics</a>
-        <span class="version label label-default" data-toggle="tooltip" data-placement="bottom" title="Released version">0.0.1</span>
+        <span class="version label label-default" data-toggle="tooltip" data-placement="bottom" title="Released version">0.0.2</span>
       </span>
     </div>
 

diff --git a/404.html b/404.html
@@ -67,7 +67,7 @@
       </button>
       <span class="navbar-brand">
         <a class="navbar-link" href="index.html">fluentGenomics</a>
-        <span class="version label label-default" data-toggle="tooltip" data-placement="bottom" title="Released version">0.0.1</span>
+        <span class="version label label-default" data-toggle="tooltip" data-placement="bottom" title="Released version">0.0.2</span>
       </span>
     </div>
 

diff --git a/LICENSE-text.html b/LICENSE-text.html
@@ -67,7 +67,7 @@
       </button>
       <span class="navbar-brand">
         <a class="navbar-link" href="index.html">fluentGenomics</a>
-        <span class="version label label-default" data-toggle="tooltip" data-placement="bottom" title="Released version">0.0.1</span>
+        <span class="version label label-default" data-toggle="tooltip" data-placement="bottom" title="Released version">0.0.2</span>
       </span>
     </div>
 

diff --git a/LICENSE.html b/LICENSE.html
@@ -67,7 +67,7 @@
       </button>
       <span class="navbar-brand">
         <a class="navbar-link" href="index.html">fluentGenomics</a>
-        <span class="version label label-default" data-toggle="tooltip" data-placement="bottom" title="Released version">0.0.1</span>
+        <span class="version label label-default" data-toggle="tooltip" data-placement="bottom" title="Released version">0.0.2</span>
       </span>
     </div>
 

diff --git a/authors.html b/authors.html
@@ -67,7 +67,7 @@
       </button>
       <span class="navbar-brand">
         <a class="navbar-link" href="index.html">fluentGenomics</a>
-        <span class="version label label-default" data-toggle="tooltip" data-placement="bottom" title="Released version">0.0.1</span>
+        <span class="version label label-default" data-toggle="tooltip" data-placement="bottom" title="Released version">0.0.2</span>
       </span>
     </div>
 

diff --git a/index.html b/index.html
@@ -33,7 +33,7 @@
       </button>
       <span class="navbar-brand">
         <a class="navbar-link" href="index.html">fluentGenomics</a>
-        <span class="version label label-default" data-toggle="tooltip" data-placement="bottom" title="Released version">0.0.1</span>
+        <span class="version label label-default" data-toggle="tooltip" data-placement="bottom" title="Released version">0.0.2</span>
       </span>
     </div>
 
